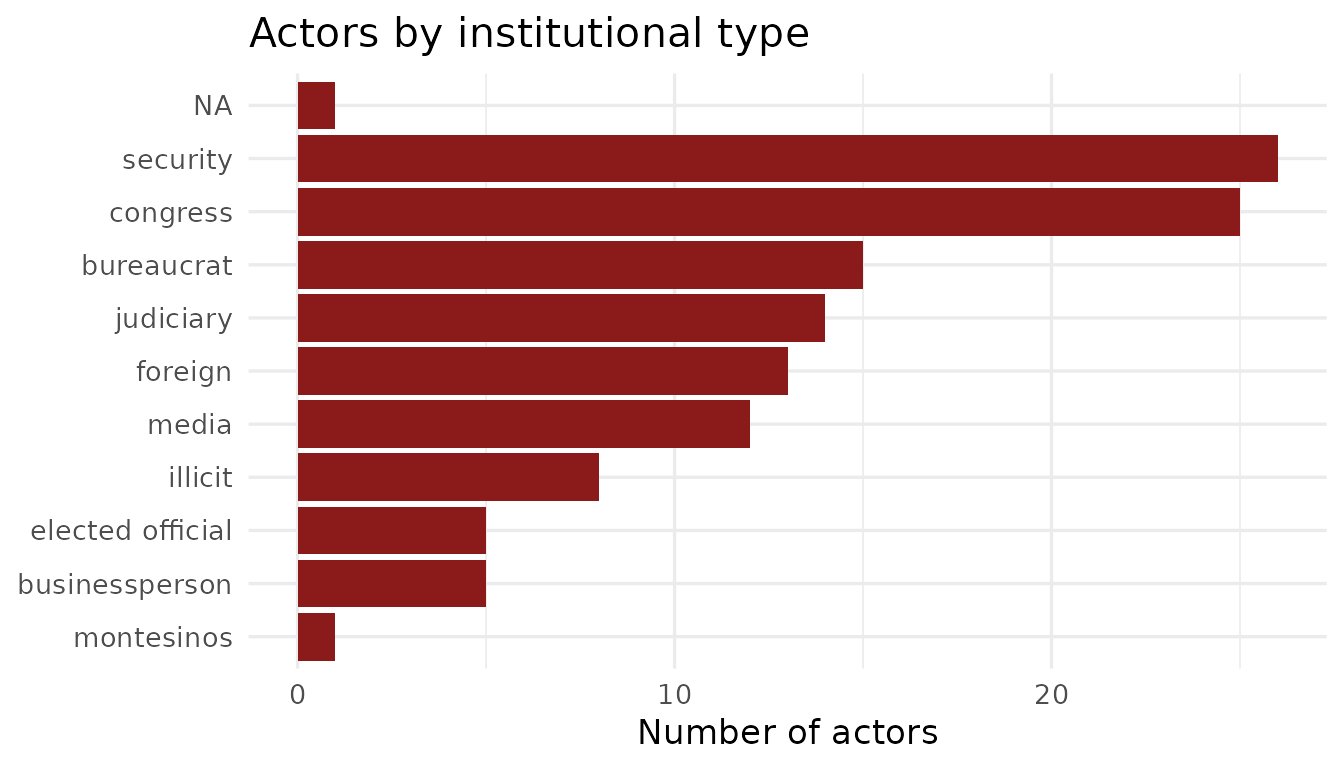
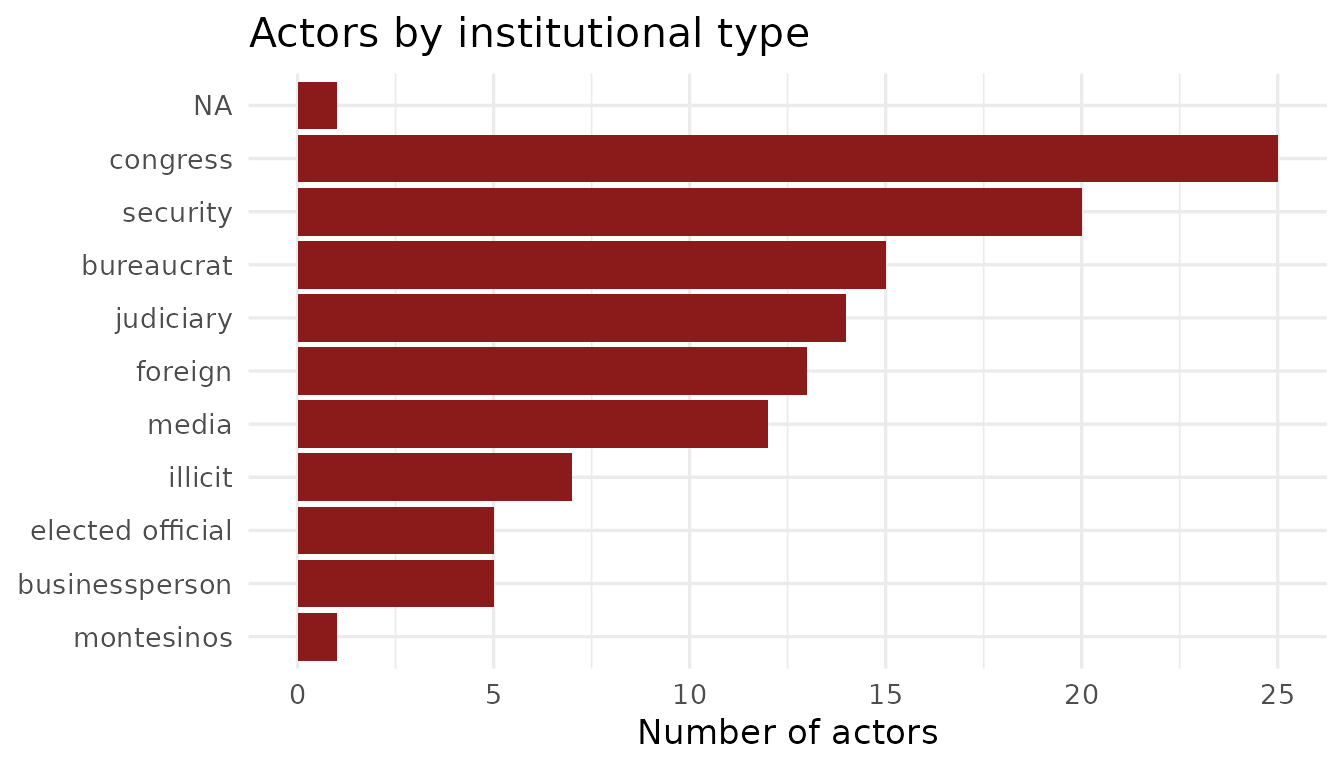
Deploying to gh-pages from @ jessietrudeau/BribeR@1c02a31d113486d7dcf8c0f68a3fdd4b95be5a68 🚀

diff --git a/articles/briber_data_guide.html b/articles/briber_data_guide.html
@@ -263,7 +263,7 @@ below table.</p>
 </tr>
 </tbody>
 </table>
-<p>The 15 <code>topic_*</code> and 125 <code>speaker_*</code> columns
+<p>The 15 <code>topic_*</code> and 108 <code>speaker_*</code> columns
 take on a value of 1 if the topic or speaker is present and a value of 0
 otherwise. They are designed for fast filtering for specific actors or
 topics without loading the full corpus.</p>
@@ -309,20 +309,20 @@ maximum of 19.</p>
 <h3 id="actors">
 <code>actors</code><a class="anchor" aria-label="anchor" href="#actors"></a>
 </h3>
-<p>This file contains biographical and institutional metadata for 125
+<p>This file contains biographical and institutional metadata for 118
 individuals named in the transcripts. The variable names are shown in
 the below table.</p>
 <div class="sourceCode" id="cb5"><pre class="downlit sourceCode r">
 <code class="sourceCode R"><span><span class="fu"><a href="https://rdrr.io/r/utils/head.html" class="external-link">head</a></span><span class="op">(</span><span class="va">actors</span><span class="op">)</span></span>
-<span><span class="co">#&gt; <span style="color: #949494;"># A tibble: 6 × 6</span></span></span>
-<span><span class="co">#&gt;   speaker                         position         type  party speaker_std notes</span></span>
-<span><span class="co">#&gt;   <span style="color: #949494; font-style: italic;">&lt;chr&gt;</span>                           <span style="color: #949494; font-style: italic;">&lt;chr&gt;</span>            <span style="color: #949494; font-style: italic;">&lt;chr&gt;</span> <span style="color: #949494; font-style: italic;">&lt;chr&gt;</span> <span style="color: #949494; font-style: italic;">&lt;chr&gt;</span>       <span style="color: #949494; font-style: italic;">&lt;chr&gt;</span></span></span>
-<span><span class="co">#&gt; <span style="color: #BCBCBC;">1</span> vladimir montesinos             Head of Nationa… mont… <span style="color: #BB0000;">NA</span>    montesinos   <span style="color: #BB0000;">NA</span>  </span></span>
-<span><span class="co">#&gt; <span style="color: #BCBCBC;">2</span> desconocido                     <span style="color: #BB0000;">NA</span>               <span style="color: #BB0000;">NA</span>    <span style="color: #BB0000;">NA</span>    desconocido  <span style="color: #BB0000;">NA</span>  </span></span>
-<span><span class="co">#&gt; <span style="color: #BCBCBC;">3</span> alexander martin kouri bumachar Elected Constit… cong… Part… alex kouri   <span style="color: #BB0000;">NA</span>  </span></span>
-<span><span class="co">#&gt; <span style="color: #BCBCBC;">4</span> lucchetti                       Company special… busi… <span style="color: #BB0000;">NA</span>    lucchetti   <span style="color: #949494;">"</span>Luc…</span></span>
-<span><span class="co">#&gt; <span style="color: #BCBCBC;">5</span> carlos eduardo ferrero costa    Congressman (19… cong… Camb… ferrero     <span style="color: #949494;">"</span>Mul…</span></span>
-<span><span class="co">#&gt; <span style="color: #BCBCBC;">6</span> alberto fujimori                President of Pe… elec… <span style="color: #BB0000;">NA</span>    fujimori     <span style="color: #BB0000;">NA</span></span></span></code></pre></div>
+<span><span class="co">#&gt; <span style="color: #949494;"># A tibble: 6 × 7</span></span></span>
+<span><span class="co">#&gt;   speaker                      position type  party speaker_std notes is_speaker</span></span>
+<span><span class="co">#&gt;   <span style="color: #949494; font-style: italic;">&lt;chr&gt;</span>                        <span style="color: #949494; font-style: italic;">&lt;chr&gt;</span>    <span style="color: #949494; font-style: italic;">&lt;chr&gt;</span> <span style="color: #949494; font-style: italic;">&lt;chr&gt;</span> <span style="color: #949494; font-style: italic;">&lt;chr&gt;</span>       <span style="color: #949494; font-style: italic;">&lt;chr&gt;</span>      <span style="color: #949494; font-style: italic;">&lt;int&gt;</span></span></span>
+<span><span class="co">#&gt; <span style="color: #BCBCBC;">1</span> vladimir montesinos          Head of… mont… <span style="color: #BB0000;">NA</span>    montesinos   <span style="color: #BB0000;">NA</span>            1</span></span>
+<span><span class="co">#&gt; <span style="color: #BCBCBC;">2</span> desconocido                  <span style="color: #BB0000;">NA</span>       <span style="color: #BB0000;">NA</span>    <span style="color: #BB0000;">NA</span>    desconocido  <span style="color: #BB0000;">NA</span>            1</span></span>
+<span><span class="co">#&gt; <span style="color: #BCBCBC;">3</span> alexander martin kouri buma… Elected… cong… Part… alex kouri   <span style="color: #BB0000;">NA</span>            1</span></span>
+<span><span class="co">#&gt; <span style="color: #BCBCBC;">4</span> lucchetti                    Company… busi… <span style="color: #BB0000;">NA</span>    lucchetti   <span style="color: #949494;">"</span>Luc…          1</span></span>
+<span><span class="co">#&gt; <span style="color: #BCBCBC;">5</span> carlos eduardo ferrero costa Congres… cong… Camb… ferrero     <span style="color: #949494;">"</span>Mul…          1</span></span>
+<span><span class="co">#&gt; <span style="color: #BCBCBC;">6</span> alberto fujimori             Preside… elec… <span style="color: #BB0000;">NA</span>    fujimori     <span style="color: #BB0000;">NA</span>            1</span></span></code></pre></div>
 <table class="table">
 <colgroup>
 <col width="25%">
@@ -371,6 +371,15 @@ party labels)</td>
 <td><code>notes</code></td>
 <td>character</td>
 <td>Miscellaneous notes for actors that were difficult to identify</td>
+</tr>
+<tr class="odd">
+<td><code>is_speaker</code></td>
+<td>integer</td>
+<td>1 if the individual has at least one speech turn in the corpus, 0 if
+they are named in the archive but never recorded speaking. Only those
+with <code>is_speaker == 1</code> can be filtered with
+<code><a href="../reference/get_transcript_id.html">get_transcript_id()</a></code>
+</td>
 </tr>
 </tbody>
 </table>
@@ -478,7 +487,7 @@ can reference them by name after <code><a href="https://jessietrudeau.github.io/
 <span><span class="co">#&gt; [1] 46597</span></span>
 <span><span class="fu"><a href="https://rdrr.io/r/base/names.html" class="external-link">names</a></span><span class="op">(</span><span class="va">actors</span><span class="op">)</span></span>
 <span><span class="co">#&gt; [1] "speaker"     "position"    "type"        "party"       "speaker_std"</span></span>
-<span><span class="co">#&gt; [6] "notes"</span></span></code></pre></div>
+<span><span class="co">#&gt; [6] "notes"       "is_speaker"</span></span></code></pre></div>
 </div>
 
   </main><aside class="col-md-3"><nav id="toc" aria-label="Table of contents"><h2>On this page</h2>

diff --git a/reference/get_transcript_speakers.html b/reference/get_transcript_speakers.html
@@ -137,7 +137,7 @@ combination that never co-occurs returns a zero-row tibble.</p>
 <span class="r-out co"><span class="r-pr">#&gt;</span> <span style="color: #BCBCBC;"> 2</span> alex kouri    <span style="color: #949494;">&lt;dbl [3]&gt;</span>  </span>
 <span class="r-out co"><span class="r-pr">#&gt;</span> <span style="color: #BCBCBC;"> 3</span> arancibia     <span style="color: #949494;">&lt;dbl [1]&gt;</span>  </span>
 <span class="r-out co"><span class="r-pr">#&gt;</span> <span style="color: #BCBCBC;"> 4</span> arce          <span style="color: #949494;">&lt;dbl [2]&gt;</span>  </span>
-<span class="r-out co"><span class="r-pr">#&gt;</span> <span style="color: #BCBCBC;"> 5</span> bello vazquez <span style="color: #949494;">&lt;dbl [1]&gt;</span>  </span>
+<span class="r-out co"><span class="r-pr">#&gt;</span> <span style="color: #BCBCBC;"> 5</span> bello vasquez <span style="color: #949494;">&lt;dbl [1]&gt;</span>  </span>
 <span class="r-out co"><span class="r-pr">#&gt;</span> <span style="color: #BCBCBC;"> 6</span> borobio       <span style="color: #949494;">&lt;dbl [3]&gt;</span>  </span>
 <span class="r-out co"><span class="r-pr">#&gt;</span> <span style="color: #BCBCBC;"> 7</span> bringas       <span style="color: #949494;">&lt;dbl [1]&gt;</span>  </span>
 <span class="r-out co"><span class="r-pr">#&gt;</span> <span style="color: #BCBCBC;"> 8</span> calmell       <span style="color: #949494;">&lt;dbl [4]&gt;</span>  </span>
@@ -153,7 +153,7 @@ combination that never co-occurs returns a zero-row tibble.</p>
 <span class="r-out co"><span class="r-pr">#&gt;</span> <span style="color: #BCBCBC;"> 1</span> alberto kouri     <span style="color: #949494;">&lt;dbl [1]&gt;</span>  </span>
 <span class="r-out co"><span class="r-pr">#&gt;</span> <span style="color: #BCBCBC;"> 2</span> alex kouri        <span style="color: #949494;">&lt;dbl [1]&gt;</span>  </span>
 <span class="r-out co"><span class="r-pr">#&gt;</span> <span style="color: #BCBCBC;"> 3</span> arce              <span style="color: #949494;">&lt;dbl [2]&gt;</span>  </span>
-<span class="r-out co"><span class="r-pr">#&gt;</span> <span style="color: #BCBCBC;"> 4</span> bello vazquez     <span style="color: #949494;">&lt;dbl [1]&gt;</span>  </span>
+<span class="r-out co"><span class="r-pr">#&gt;</span> <span style="color: #BCBCBC;"> 4</span> bello vasquez     <span style="color: #949494;">&lt;dbl [1]&gt;</span>  </span>
 <span class="r-out co"><span class="r-pr">#&gt;</span> <span style="color: #BCBCBC;"> 5</span> bringas           <span style="color: #949494;">&lt;dbl [1]&gt;</span>  </span>
 <span class="r-out co"><span class="r-pr">#&gt;</span> <span style="color: #BCBCBC;"> 6</span> chirinos          <span style="color: #949494;">&lt;dbl [1]&gt;</span>  </span>
 <span class="r-out co"><span class="r-pr">#&gt;</span> <span style="color: #BCBCBC;"> 7</span> crousillat        <span style="color: #949494;">&lt;dbl [1]&gt;</span>  </span>
@@ -163,7 +163,7 @@ combination that never co-occurs returns a zero-row tibble.</p>
 <span class="r-out co"><span class="r-pr">#&gt;</span> <span style="color: #BCBCBC;">11</span> ibarcena          <span style="color: #949494;">&lt;dbl [2]&gt;</span>  </span>
 <span class="r-out co"><span class="r-pr">#&gt;</span> <span style="color: #BCBCBC;">12</span> joy way           <span style="color: #949494;">&lt;dbl [1]&gt;</span>  </span>
 <span class="r-out co"><span class="r-pr">#&gt;</span> <span style="color: #BCBCBC;">13</span> locutor           <span style="color: #949494;">&lt;dbl [1]&gt;</span>  </span>
-<span class="r-out co"><span class="r-pr">#&gt;</span> <span style="color: #BCBCBC;">14</span> manuel lopez      <span style="color: #949494;">&lt;dbl [1]&gt;</span>  </span>
+<span class="r-out co"><span class="r-pr">#&gt;</span> <span style="color: #BCBCBC;">14</span> lopez             <span style="color: #949494;">&lt;dbl [1]&gt;</span>  </span>
 <span class="r-out co"><span class="r-pr">#&gt;</span> <span style="color: #BCBCBC;">15</span> montes de oca     <span style="color: #949494;">&lt;dbl [1]&gt;</span>  </span>
 <span class="r-out co"><span class="r-pr">#&gt;</span> <span style="color: #BCBCBC;">16</span> montesinos        <span style="color: #949494;">&lt;dbl [8]&gt;</span>  </span>
 <span class="r-out co"><span class="r-pr">#&gt;</span> <span style="color: #BCBCBC;">17</span> romero seminario  <span style="color: #949494;">&lt;dbl [1]&gt;</span>  </span>

diff --git a/articles/using_briber.html b/articles/using_briber.html
@@ -195,8 +195,10 @@ these speakers are present.</p>
 <span><span class="co">#&gt; [1] 2</span></span>
 <span><span class="va">kouri_crousillat_ids</span></span>
 <span><span class="co">#&gt; [1] 76 82</span></span></code></pre></div>
-<p>There are 125 valid speaker IDs that the <code>speaker_std</code>
-variable can take on, listed in the <code>actors</code> dataset.</p>
+<p>There are 108 speaker IDs that <code><a href="../reference/get_transcript_id.html">get_transcript_id()</a></code> can
+filter on. The <code>actors</code> dataset lists 118 individuals in
+total; those with <code>is_speaker == 1</code> are the ones recorded
+speaking in the corpus.</p>
 </div>
 <div class="section level3">
 <h3 id="by-topic">By topic<a class="anchor" aria-label="anchor" href="#by-topic"></a>
@@ -319,11 +321,6 @@ with the actor-level metadata.</p>
 <span>  <span class="fu"><a href="https://dplyr.tidyverse.org/reference/mutate-joins.html" class="external-link">left_join</a></span><span class="op">(</span><span class="va">actors</span> <span class="op">|&gt;</span> <span class="fu"><a href="https://dplyr.tidyverse.org/reference/select.html" class="external-link">select</a></span><span class="op">(</span><span class="va">speaker_std</span>, <span class="va">type</span>, <span class="va">position</span><span class="op">)</span>,</span>
 <span>    by <span class="op">=</span> <span class="st">"speaker_std"</span></span>
 <span>  <span class="op">)</span></span>
-<span><span class="co">#&gt; Warning in left_join(media_transcripts, select(actors, speaker_std, type, : Detected an unexpected many-to-many relationship between `x` and `y`.</span></span>
-<span><span class="co">#&gt; <span style="color: #00BBBB;">ℹ</span> Row 11749 of `x` matches multiple rows in `y`.</span></span>
-<span><span class="co">#&gt; <span style="color: #00BBBB;">ℹ</span> Row 1 of `y` matches multiple rows in `x`.</span></span>
-<span><span class="co">#&gt; <span style="color: #00BBBB;">ℹ</span> If a many-to-many relationship is expected, set `relationship =</span></span>
-<span><span class="co">#&gt;   "many-to-many"` to silence this warning.</span></span>
 <span></span>
 <span><span class="co">## Step 2: Count words spoken in media_transcripts and group by type, summarize</span></span>
 <span><span class="va">media_transcripts</span> <span class="op">|&gt;</span></span>

diff --git a/articles/raw_data_guide.html b/articles/raw_data_guide.html
@@ -143,7 +143,7 @@ pidiendo (ininteligible) y que habíamos quedado te acuerdas
 </div>
 <p><strong>BribeR</strong> provides structured access to transcripts of
 99 of these recordings, which contain 46,597 individual speech turns.
-The package also includes relevant metadata about 125 recorded speakers
+The package also includes relevant metadata about 118 named individuals
 and 15 topics.</p>
 <p>This page introduces the raw data, highlighting how it is organized
 at the transcript-, actor-, and topic-level. This page uses some of the
@@ -207,7 +207,7 @@ conversation).</p>
 <div class="section level2">
 <h2 id="actors">Actors<a class="anchor" aria-label="anchor" href="#actors"></a>
 </h2>
-<p>Users can access biographical and institutional metadata for the 125
+<p>Users can access biographical and institutional metadata for the 118
 individuals named in the Vladivideos transcripts through the
 <code>actors</code> dataset. Each person is classified by their
 institutional role at the time of the recordings.</p>
@@ -244,7 +244,7 @@ his own category:</p>
 </tr>
 <tr class="even">
 <td><code>security</code></td>
-<td>26</td>
+<td>20</td>
 <td>Military and police officers</td>
 </tr>
 <tr class="odd">
@@ -275,7 +275,7 @@ to switch allegiance</td>
 </tr>
 <tr class="even">
 <td><code>illicit</code></td>
-<td>8</td>
+<td>7</td>
 <td>Individuals primarily associated with armed groups</td>
 </tr>
 <tr class="odd">

diff --git a/index.html b/index.html
@@ -71,7 +71,7 @@
 <!-- badges: start -->
 
 <p><strong>BribeR</strong> is an R package for accessing and analyzing text transcript data from the <em>Vladivideos,</em> covert recordings documenting bribery and corruption during Alberto Fujimori’s presidency in Peru (1990-2000).</p>
-<p>This package provides user-friendly access to a large digital archive of <em>Vladivideo</em> transcripts and metadata, including data about 125 individual speakers in the files and 15 expert-coded topics of importance during the Fujimori presidency.</p>
+<p>This package provides user-friendly access to a large digital archive of <em>Vladivideo</em> transcripts and metadata, including data about 118 individuals named in the files and 15 expert-coded topics of importance during the Fujimori presidency.</p>
 <p align="center">
 <img src="reference/figures/network_viz.png" width="60%" alt="Network of speakers recorded in the Vladivideo files, with Montesinos at the center"></p>
 <p align="center">
@@ -124,7 +124,7 @@ Speakers recorded in the <em>Vladivideo</em> files, with Montesinos in the cente
 <div class="section level2">
 <h2 id="datasets">Datasets<a class="anchor" aria-label="anchor" href="#datasets"></a>
 </h2>
-<p>BribeR includes four datasets:</p>
+<p>BribeR includes four searchable datasets:</p>
 <table class="table">
 <colgroup>
 <col width="50%">

diff --git a/reference/actors.html b/reference/actors.html
@@ -60,7 +60,7 @@ Vladivideos transcripts.</p>
 
     <div class="section level2">
     <h2 id="format">Format<a class="anchor" aria-label="anchor" href="#format"></a></h2>
-    <p>A tibble with 125 rows and 6 variables:</p><dl><dt>speaker</dt>
+    <p>A tibble with 118 rows and 7 variables:</p><dl><dt>speaker</dt>
 <dd><p>Full name of the individual.</p></dd>
 
 <dt>position</dt>
@@ -83,6 +83,12 @@ column in the transcripts corpus.</p></dd>
 
 <dt>notes</dt>
 <dd><p>Additional notes on the individual.</p></dd>
+
+<dt>is_speaker</dt>
+<dd><p>Integer indicator: 1 if the individual has at least one
+speech turn in the transcript corpus, 0 if they are named in the archive
+but never recorded speaking. Only individuals with <code>is_speaker == 1</code>
+can be used to filter with <code><a href="get_transcript_id.html">get_transcript_id</a></code>.</p></dd>
 
 
 </dl></div>

diff --git a/reference/index.html b/reference/index.html
@@ -162,13 +162,6 @@
 
         <dt>
 
-          <code><a href="actors_description.html">actors_description</a></code>
-
-        </dt>
-        <dd>Actor Descriptions</dd>
-
-        <dt>
-
           <code><a href="topic_descriptions.html">topic_descriptions</a></code>
 
         </dt>

diff --git a/articles/briber_data_guide.md b/articles/briber_data_guide.md
@@ -84,7 +84,7 @@ head(transcript_index[, c("id", "file", "format", "date", "original_id", "type",
 | `speaker_*` | integer | Speaker indicators (1/0) |
 | `topic_*` | integer | Topic indicators (1/0) |
 
-The 15 `topic_*` and 125 `speaker_*` columns take on a value of 1 if the
+The 15 `topic_*` and 108 `speaker_*` columns take on a value of 1 if the
 topic or speaker is present and a value of 0 otherwise. They are
 designed for fast filtering for specific actors or topics without
 loading the full corpus.
@@ -132,22 +132,22 @@ speakers_per_transcript %>%
 
 ### `actors`
 
-This file contains biographical and institutional metadata for 125
+This file contains biographical and institutional metadata for 118
 individuals named in the transcripts. The variable names are shown in
 the below table.
 
 ``` r
 
 head(actors)
-#> # A tibble: 6 × 6
-#>   speaker                         position         type  party speaker_std notes
-#>   <chr>                           <chr>            <chr> <chr> <chr>       <chr>
-#> 1 vladimir montesinos             Head of Nationa… mont… NA    montesinos   NA  
-#> 2 desconocido                     NA               NA    NA    desconocido  NA  
-#> 3 alexander martin kouri bumachar Elected Constit… cong… Part… alex kouri   NA  
-#> 4 lucchetti                       Company special… busi… NA    lucchetti   "Luc…
-#> 5 carlos eduardo ferrero costa    Congressman (19… cong… Camb… ferrero     "Mul…
-#> 6 alberto fujimori                President of Pe… elec… NA    fujimori     NA
+#> # A tibble: 6 × 7
+#>   speaker                      position type  party speaker_std notes is_speaker
+#>   <chr>                        <chr>    <chr> <chr> <chr>       <chr>      <int>
+#> 1 vladimir montesinos          Head of… mont… NA    montesinos   NA            1
+#> 2 desconocido                  NA       NA    NA    desconocido  NA            1
+#> 3 alexander martin kouri buma… Elected… cong… Part… alex kouri   NA            1
+#> 4 lucchetti                    Company… busi… NA    lucchetti   "Luc…          1
+#> 5 carlos eduardo ferrero costa Congres… cong… Camb… ferrero     "Mul…          1
+#> 6 alberto fujimori             Preside… elec… NA    fujimori     NA            1
 ```
 
 | Column | Type | Description |
@@ -158,6 +158,7 @@ head(actors)
 | `type` | charater | One of 11 categories described in the [Raw Data Guide](https://jessietrudeau.com/BribeR/articles/raw_data_guide.html): `montesinos`, `security`, `congress`, `judiciary`, `media`, `businessperson`, `elected official`, `bureaucrat`, `foreign`,`illicit`, and unknown (`NA`). |
 | `party` | character | For elected officials, the political party at the time of the recording (consistent with [V-Dem](https://www.v-dem.net/) party labels) |
 | `notes` | character | Miscellaneous notes for actors that were difficult to identify |
+| `is_speaker` | integer | 1 if the individual has at least one speech turn in the corpus, 0 if they are named in the archive but never recorded speaking. Only those with `is_speaker == 1` can be filtered with [`get_transcript_id()`](https://jessietrudeau.github.io/BribeR/reference/get_transcript_id.md) |
 
 For example, the file contains this biographical information about some
 of the speakers from Fujimori’s party:
@@ -244,7 +245,7 @@ nrow(compiled_transcripts)
 #> [1] 46597
 names(actors)
 #> [1] "speaker"     "position"    "type"        "party"       "speaker_std"
-#> [6] "notes"
+#> [6] "notes"       "is_speaker"
 ```
 
 [^1]: We generate a new number within the BribeR package, see the

diff --git a/articles/raw_data_guide.md b/articles/raw_data_guide.md
@@ -72,7 +72,7 @@ conversamos más directos acá, quedamos así (ininteligible).*
 
 **BribeR** provides structured access to transcripts of 99 of these
 recordings, which contain 46,597 individual speech turns. The package
-also includes relevant metadata about 125 recorded speakers and 15
+also includes relevant metadata about 118 named individuals and 15
 topics.
 
 This page introduces the raw data, highlighting how it is organized at
@@ -141,7 +141,7 @@ ggplot(meta, aes(x = n_words)) +
 
 ## Actors
 
-Users can access biographical and institutional metadata for the 125
+Users can access biographical and institutional metadata for the 118
 individuals named in the Vladivideos transcripts through the `actors`
 dataset. Each person is classified by their institutional role at the
 time of the recordings.
@@ -166,13 +166,13 @@ own category:
 | type | Count | Description |
 |----|----|----|
 | `montesinos` | 1 | Vladimiro Montesinos, Head of the National Intelligence Service (SIN) |
-| `security` | 26 | Military and police officers |
+| `security` | 20 | Military and police officers |
 | `congress` | 25 | Members of Congress, including allies and opposition members bribed to switch allegiance |
 | `bureaucrat` | 15 | Senior civil servants and agency heads |
 | `judiciary` | 14 | Judges, prosecutors, and members of the electoral tribunals |
 | `foreign` | 13 | Foreign officials and diplomats |
 | `media` | 12 | Television channel and newspaper executives |
-| `illicit` | 8 | Individuals primarily associated with armed groups |
+| `illicit` | 7 | Individuals primarily associated with armed groups |
 | `businessperson` | 5 | Private sector executives and financiers |
 | `elected official` | 5 | Mayors, executives, and (non-Congressional) other elected officials |
 | `unknown` | 1 | Institutional role not recorded |

diff --git a/articles/using_briber.md b/articles/using_briber.md
@@ -142,8 +142,11 @@ kouri_crousillat_ids
 #> [1] 76 82
 ```
 
-There are 125 valid speaker IDs that the `speaker_std` variable can take
-on, listed in the `actors` dataset.
+There are 108 speaker IDs that
+[`get_transcript_id()`](https://jessietrudeau.github.io/BribeR/reference/get_transcript_id.md)
+can filter on. The `actors` dataset lists 118 individuals in total;
+those with `is_speaker == 1` are the ones recorded speaking in the
+corpus.
 
 ### By topic
 
@@ -280,11 +283,6 @@ media_transcripts <- media_transcripts |>
   left_join(actors |> select(speaker_std, type, position),
     by = "speaker_std"
   )
-#> Warning in left_join(media_transcripts, select(actors, speaker_std, type, : Detected an unexpected many-to-many relationship between `x` and `y`.
-#> ℹ Row 11749 of `x` matches multiple rows in `y`.
-#> ℹ Row 1 of `y` matches multiple rows in `x`.
-#> ℹ If a many-to-many relationship is expected, set `relationship =
-#>   "many-to-many"` to silence this warning.
 
 ## Step 2: Count words spoken in media_transcripts and group by type, summarize
 media_transcripts |>

diff --git a/reference/get_transcript_speakers.md b/reference/get_transcript_speakers.md
@@ -89,7 +89,7 @@ get_transcript_speakers(topic = "media")
 #>  2 alex kouri    <dbl [3]>  
 #>  3 arancibia     <dbl [1]>  
 #>  4 arce          <dbl [2]>  
-#>  5 bello vazquez <dbl [1]>  
+#>  5 bello vasquez <dbl [1]>  
 #>  6 borobio       <dbl [3]>  
 #>  7 bringas       <dbl [1]>  
 #>  8 calmell       <dbl [4]>  
@@ -105,7 +105,7 @@ get_transcript_speakers(topic = c("media", "reelection"))
 #>  1 alberto kouri     <dbl [1]>  
 #>  2 alex kouri        <dbl [1]>  
 #>  3 arce              <dbl [2]>  
-#>  4 bello vazquez     <dbl [1]>  
+#>  4 bello vasquez     <dbl [1]>  
 #>  5 bringas           <dbl [1]>  
 #>  6 chirinos          <dbl [1]>  
 #>  7 crousillat        <dbl [1]>  
@@ -115,7 +115,7 @@ get_transcript_speakers(topic = c("media", "reelection"))
 #> 11 ibarcena          <dbl [2]>  
 #> 12 joy way           <dbl [1]>  
 #> 13 locutor           <dbl [1]>  
-#> 14 manuel lopez      <dbl [1]>  
+#> 14 lopez             <dbl [1]>  
 #> 15 montes de oca     <dbl [1]>  
 #> 16 montesinos        <dbl [8]>  
 #> 17 romero seminario  <dbl [1]>  

diff --git a/index.md b/index.md
@@ -5,9 +5,9 @@ data from the *Vladivideos,* covert recordings documenting bribery and
 corruption during Alberto Fujimori’s presidency in Peru (1990-2000).
 
 This package provides user-friendly access to a large digital archive of
-*Vladivideo* transcripts and metadata, including data about 125
-individual speakers in the files and 15 expert-coded topics of
-importance during the Fujimori presidency.
+*Vladivideo* transcripts and metadata, including data about 118
+individuals named in the files and 15 expert-coded topics of importance
+during the Fujimori presidency.
 
 ![Network of speakers recorded in the Vladivideo files, with Montesinos
 at the center](reference/figures/network_viz.png)
@@ -87,7 +87,7 @@ media_transcripts <- read_transcripts(media_ids)
 
 ## Datasets
 
-BribeR includes four datasets:
+BribeR includes four searchable datasets:
 
 | Dataset | Description |
 |----|----|
